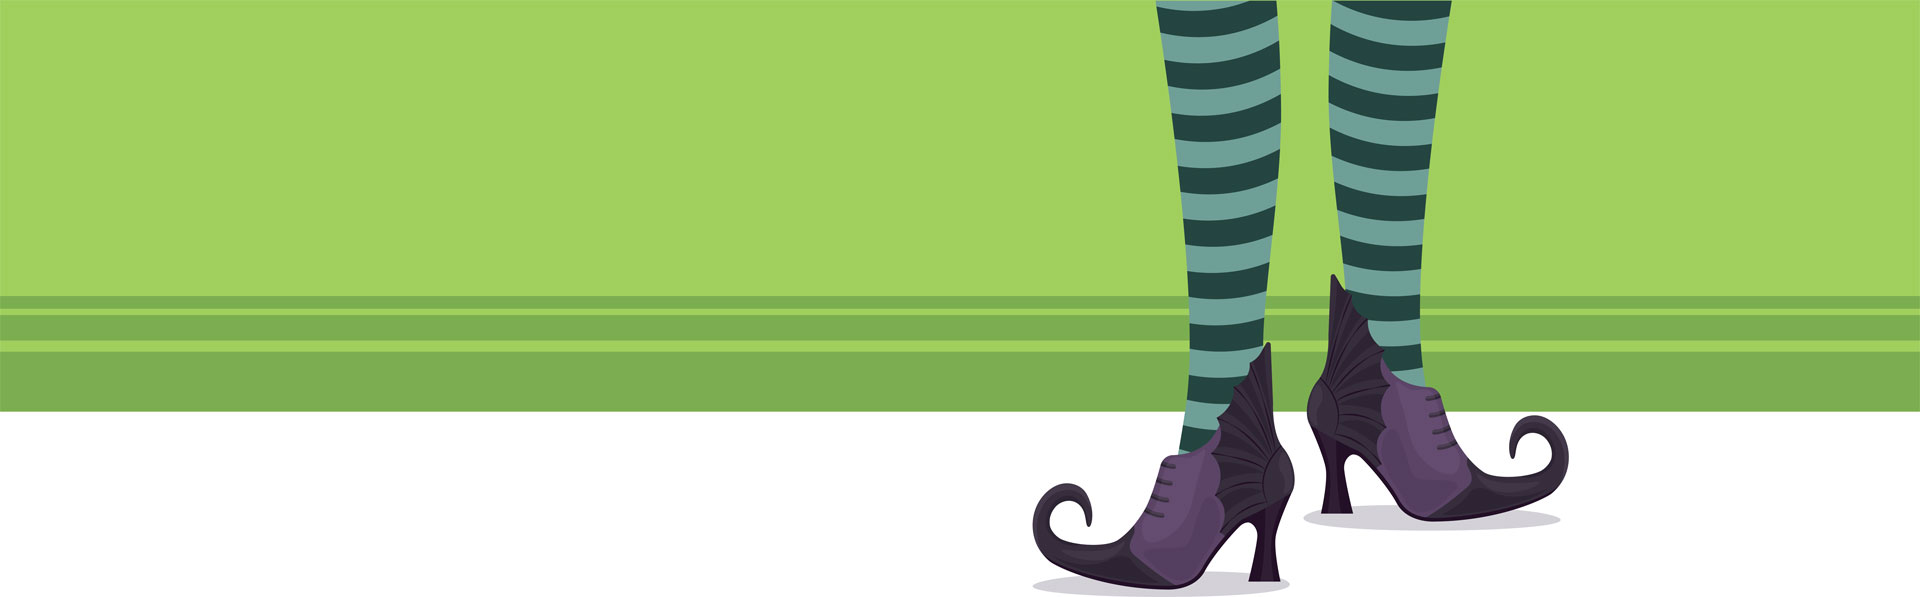
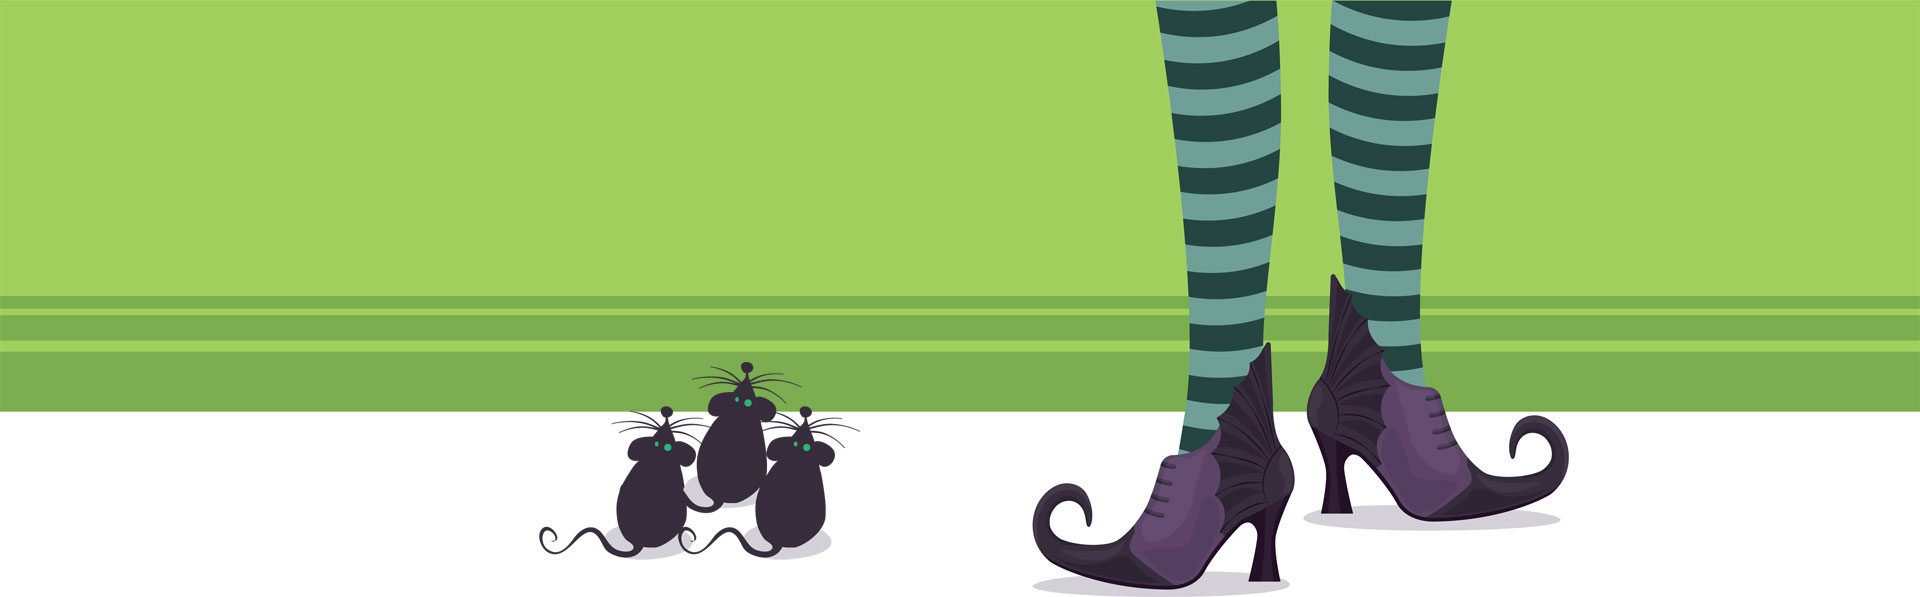
content and backgrounds

Changed region(s): [[0.2812, 0.603, 0.4375, 0.9347]]

diff --git a/storybook-holiday/index.html b/storybook-holiday/index.html
@@ -1,5 +1,6 @@
 <!DOCTYPE html>
-<html lang="en"><!-- InstanceBegin template="/Templates/page.dwt" codeOutsideHTMLIsLocked="false" -->
+<html lang="en">
+<!-- InstanceBegin template="/Templates/page.dwt" codeOutsideHTMLIsLocked="false" -->
 <head>
 <meta charset="utf-8">
 <meta http-equiv="X-UA-Compatible" content="IE=edge">
@@ -35,49 +36,132 @@ j=d.createElement(s),dl=l!='dataLayer'?'&l='+l:'';j.async=true;j.src=
 <meta name="theme-color" content="#ffffff">
 <link href="https://maxcdn.bootstrapcdn.com/bootswatch/3.3.7/cosmo/bootstrap.min.css" rel="stylesheet" integrity="sha384-h21C2fcDk/eFsW9sC9h0dhokq5pDinLNklTKoxIZRUn3+hvmgQSffLLQ4G4l2eEr" crossorigin="anonymous">
 <link href="https://fonts.googleapis.com/css?family=Roboto+Slab:300,400|Ubuntu:300,400,500,300italic,400italic,500italic|Open+Sans:300,400,500,600,700,800|Material+Icons" rel="stylesheet">
-<link type="text/css" rel="stylesheet" href="https://www.dcl.org/shared-assets/css/dcl.css?6224">
+<link type="text/css" rel="stylesheet" href="https://www.dcl.org/shared-assets/css/dcl.css?21224">
 <script src="https://kit.fontawesome.com/5a49a17030.js" crossorigin="anonymous"></script> 
 <script src="https://code.jquery.com/jquery-1.11.3.min.js" integrity="sha256-7LkWEzqTdpEfELxcZZlS6wAx5Ff13zZ83lYO2/ujj7g=" crossorigin="anonymous"></script> 
 <script src="https://maxcdn.bootstrapcdn.com/bootstrap/3.3.7/js/bootstrap.min.js" integrity="sha384-Tc5IQib027qvyjSMfHjOMaLkfuWVxZxUPnCJA7l2mCWNIpG9mGCD8wGNIcPD7Txa" crossorigin="anonymous"></script> 
 <script src="https://www.dcl.org/shared-assets/js/dcl.js?81822"></script> 
+<!-- Start of Zendesk Widget script --> 
+<script id="ze-snippet" src="https://static.zdassets.com/ekr/snippet.js?key=72a1019f-18b4-4f9c-ad65-4b7aa501f1d8"> </script> 
+<!-- End of Zendesk Widget script -->
 <!-- InstanceBeginEditable name="head" -->
-<link rel="stylesheet" href="https://cdnjs.cloudflare.com/ajax/libs/flickity/2.1.2/flickity.min.css" integrity="sha256-R7F2N1AOmvTM5vdSjlUU+Uij6rwjyLuGezvu4lU+5cI=" crossorigin="anonymous" />
 <style>
-.reserve-a-space-active {
+@font-face {
+    font-family: 'dreadful';
+    src: url('../shared-assets/web-fonts/dreadful-regular-webfont.woff2') format('woff2'), url('../shared-assets/web-fonts/dreadful-regular-webfont.woff') format('woff');
+    font-weight: normal;
+    font-style: normal;
+    font-display: swap;
+}
+.events-active {
     background-color: #f5f5f5;
 }
+.background-row {
+    background: linear-gradient(to bottom, #fff 0%, #fff 25%, #efeeed 65%, #efeeed 100%);
+}
+.dreadful {
+    font-family: "dreadful", sans-serif;
+    font-weight: 600;
+}
+h1.dreadful {
+    font-family: "dreadful", sans-serif;
+    color: #000;
+    font-size: 200px;
+    font-weight: 900;
+    text-transform: uppercase;
+    letter-spacing: 10px;
+    line-height: 160px;
+    padding: 10px 0 15px;
+    margin: 0;
+}
+.intro-text {
+    font-size: 24px;
+    text-transform: uppercase;
+    font-weight: 500;
+    padding-top: 5px;
+}
 .custom-container {
-    max-width: 2200px;
+    background: #fff url("witches-background.jpg") top center no-repeat;
+    max-width: 1920px;
     margin: 0 auto;
+    min-height: 600px;
+    color: #000;
+    font-weight: 500;
 }
-.intro-container {
-    max-width: 850px;
+.event-wrapper {
+    max-width: 700px;
+    padding: 25px 15px 0;
+    text-align: center;
+    float: right;
+    margin-right: 40%;
+}
+.details-container {
+    background: #a2ce5c url("details-background.jpg") bottom center repeat-x;
+    max-width: 1920px;
     margin: 0 auto;
-    padding: 0 15px 30px;
+    color: #000;
+    font-weight: 500;
 }
-.carousel-cell {
-    margin-right: 30px;
-    opacity: .5;
-    filter: blur(1px);
+.details-wrapper {
+    max-width: 900px;
+    margin: 0 auto;
+    padding: 45px 15px 150px;
+    text-align: center;
 }
-.carousel-cell.is-selected {
-    opacity: 1;
-    filter: blur(0);
+.details {
+    font-size: 18px;
 }
-.flickity-prev-next-button {
-    width: 50px;
-    height: 50px;
-    background: transparent;
-}
-.flickity-prev-next-button:hover {
-    background: transparent;
-}
-/* arrow color */
-.flickity-prev-next-button .arrow {
-    fill: #fff;
-}
-.flickity-prev-next-button.no-svg {
+.btn.btn-lg.btn-primary.custom {
+    background-color: #21302d;
     color: #fff;
+    text-transform: uppercase;
+    font-weight: 500;
+    border: 3px solid #fff;
+    box-shadow: 0px 0px 30px #fff;
+    transition: all .4s ease-out;
+    border-radius: 2px;
+}
+.btn.btn-lg.btn-primary.custom:active, .btn.btn-lg.btn-primary.custom:hover, .btn.btn-lg.btn-primary.custom:focus {
+    cursor: not-allowed;
+}
+/*
+.btn.btn-lg.btn-primary.custom:active, .btn.btn-lg.btn-primary.custom:hover, .btn.btn-lg.btn-primary.custom:focus {
+    background-color: #000;
+    color: #fff;
+    border: 3px solid #fff;
+    box-shadow: 0px 0px 90px #fff;
+}*/
+.signup {
+    max-width: 400px;
+    margin: 0 auto;
+}
+
+@media (max-width: 1225px) {
+.custom-container {
+    background: #fff url("witches-background.jpg") 58% 100% no-repeat;
+}
+}
+
+@media (max-width: 992px) {
+.custom-container {
+    background: #fff url("mice-background.jpg") bottom center no-repeat;
+}
+.event-wrapper {
+    padding: 25px 15px 0;
+    float: none;
+    margin: 0 auto;
+}
+}
+
+@media (max-width: 600px) {
+h1.dreadful {
+    font-size: 140px;
+    line-height: 140px;
+    letter-spacing: 2px;
+}
+.event-wrapper {
+    padding: 60px 15px 0;
+}
 }
 </style>
 <!-- InstanceEndEditable -->
@@ -163,17 +247,11 @@ height="0" width="0" style="display:none;visibility:hidden"></iframe>
         </ul>
       </li>
       <li class="digital-media-active"><a href="../digital-media/">Digital Media</a> </li>
-      <li class="dropdown reserve-a-space-active"> <a data-target="#" href="#" data-toggle="dropdown" role="button" aria-haspopup="true" aria-expanded="false">Reserve a Space <span class="glyphicon glyphicon-menu-down" aria-hidden="true"></span> </a>
-        <ul class="dropdown-menu">
-          <li><a href="../reserve-a-space/">Reserve a Space</a></li>
-          <li><a href="https://go.dcl.org/myreservations/">My Reservations</a></li>
-        </ul>
-      </li>
+      <li class="reserve-a-space-active"><a href="../reserve-a-space/">Reserve a Space</a> </li>
       <li class="dropdown events-active"> <a data-target="#" href="#" data-toggle="dropdown" role="button" aria-haspopup="true" aria-expanded="false">Library Events <span class="glyphicon glyphicon-menu-down" aria-hidden="true"></span></a>
         <ul class="dropdown-menu" role="menu">
           <li><a href="../featured-events/">Featured Events</a></li>
-          <li><a href="https://go.dcl.org/events?et=storytime&r=months&n=1">Events Calendar</a></li>
-          <li><a href="https://go.dcl.org/myevents">My Events</a></li>
+          <li><a href="https://douglascountylibraries.evanced.info/signup/list?nomobile=1&et=2,3,15,16,18,20,22,24,25,35,36,37,38,39,40&lib=ALL&nd=180" target="_blank">Events Calendar</a></li>
         </ul>
       </li>
       <li class="research-active"><a href="../research/">Research</a></li>
@@ -228,17 +306,11 @@ height="0" width="0" style="display:none;visibility:hidden"></iframe>
                 </ul>
               </li>
               <li class="digital-media-active mobile-nav-heading"><a href="../digital-media/">Digital Media</a> </li>
-              <li class="mobile-nav-heading"> <a href="#" data-toggle="collapse" data-target="#reserve-a-space">Reserve a Space <span class="glyphicon glyphicon-menu-down" aria-hidden="true"></span> </a>
-                <ul id="reserve-a-space" class="nav mobile-nav-list collapse">
-                  <li><a href="../reserve-a-space/">Reserve a Space</a></li>
-                  <li><a href="https://go.dcl.org/myreservations/">My Reservations</a></li>
-                </ul>
-              </li>
+              <li class="reserve-a-space-active mobile-nav-heading"><a href="../reserve-a-space/">Reserve a Space</a> </li>
               <li class="mobile-nav-heading"> <a href="#" data-toggle="collapse" data-target="#library-events">Library Events <span class="glyphicon glyphicon-menu-down" aria-hidden="true"></span> </a>
                 <ul id="library-events" class="nav mobile-nav-list collapse">
                   <li><a href="../featured-events/">Featured Events</a></li>
-                  <li><a href="https://go.dcl.org/events?et=storytime&r=months&n=1">Events Calendar</a></li>
-                  <li><a href="https://go.dcl.org/myevents">My Events</a></li>
+                  <li><a href="https://douglascountylibraries.evanced.info/signup/list?nomobile=1&et=2,3,15,16,18,20,22,24,25,35,36,37,38,39,40&lib=ALL&nd=180" target="_blank">Events Calendar</a></li>
                 </ul>
               </li>
               <li class="research-active mobile-nav-heading"><a href="../research/">Research</a> </li>
@@ -268,51 +340,32 @@ height="0" width="0" style="display:none;visibility:hidden"></iframe>
     <div id="general-alert" style="display:none;"></div>
   </div>
   <!-- InstanceBeginEditable name="Content" -->
-  <div class="row text-center border-top">
-    <div class="intro-container">
-      <h1 class="jumbo-text text-uppercase font-weight-400 no-margin-bottom">A Storybook Holiday</h1>
-      <h4 class="roboto text-center margin-top-5">Our Storybook Holiday events are a delight for the whole family, celebrating beloved stories and timeless characters in classic literature. </h4>
-      <div class="margin-lg-50">Join us for whimsical crafts and activities, catered food and drinks, music, entertainment, and more as we bring favorite stories to life throughout the year. Costumes are always encouraged!</div>
-      <h4><i>Coming this Fall!</i></h4>
-    </div>
-    <div class="custom-container no-padding">
-      <div class="carousel" data-flickity='{ "imagesLoaded": true, "groupCells": 1, "pageDots": false, "wrapAround": true, "autoPlay": 4000 }'>
-        <div class="carousel-cell"><img src="carousel/one.jpg" alt=""></div>
-        <div class="carousel-cell"><img src="carousel/two.jpg" alt=""></div>
-        <div class="carousel-cell"><img src="carousel/three.jpg" alt=""></div>
-        <div class="carousel-cell"><img src="carousel/four.jpg" alt=""></div>
-        <div class="carousel-cell"><img src="carousel/five.jpg" alt=""></div>
-        <div class="carousel-cell"><img src="carousel/six.jpg" alt=""></div>
-        <div class="carousel-cell"><img src="carousel/seven.jpg" alt=""></div>
-        <div class="carousel-cell"><img src="carousel/eight.jpg" alt=""></div>
-        <div class="carousel-cell"><img src="carousel/nine.jpg" alt=""></div>
-        <div class="carousel-cell"><img src="carousel/ten.jpg" alt=""></div>
-        <div class="carousel-cell"><img src="carousel/eleven.jpg" alt=""></div>
-        <div class="carousel-cell"><img src="carousel/twelve.jpg" alt=""></div>
-        <div class="carousel-cell"><img src="carousel/thirteen.jpg" alt=""></div>
-        <div class="carousel-cell"><img src="carousel/fourteen.jpg" alt=""></div>
-        <div class="carousel-cell"><img src="carousel/fifteen.jpg" alt=""></div>
-        <div class="carousel-cell"><img src="carousel/sixteen.jpg" alt=""></div>
+  <div class="row background-row">
+    <div class="custom-container">
+      <div class="event-wrapper">
+        <div><i>"But this is not a fairy-tale. This is about real witches."" – Roald Dahl</i></div>
+        <div class="intro-text">A Storybook Holiday:</div>
+        <h1 class="dreadful">Witches!</h1>
       </div>
     </div>
-    <div class="container padding-top-30 padding-bottom-60">Sign up for our <a class="text-underline" href="../newsletters/">eNewsletter</a> to get the inside scoop on DCL events and ticket sales!</div>
+    <div class="details-container">
+      <div class="details-wrapper">
+        <div class="details">Join us, brave souls and clever children, for a fantastical evening in a favorite haunt as we celebrate Roald Dahl's "The Witches." Creatures and critters of all ages will be enchanted by the evening's eerie delights, including our interactive trick-or-treat experience with treats and frights along the way, magical crafts, spellbinding entertainment and activities, and cauldrons of tasty goodies for all to enjoy. But beware the witches!</div>
+        <h3 class="black no-margin-bottom">Saturday, October&nbsp;26, 6-9PM, Highlands Ranch</h3>
+        <h4 class="black margin-top-5 margin-bottom-5">$23 Adults, $18 ages 3-13</h4>
+        <div class="padding-bottom-20">(Ages 0-2 free with paying adult)</div>
+        <button class="btn btn-primary btn-lg custom" type="button">Tickets On Sale Aug 1</button>
+        <div class="signup padding-top-20"><i>Sign up for our <a class="black text-underline" href="../newsletters/">eNewsletter</a> to get the inside scoop on DCL events and ticket sales!</i></div>
+      </div>
+    </div>
   </div>
-  <!--<div class="text-center padding-top-40 padding-bottom-50">
-  <div>
-    <h4><i>Coming Spring 2022!</i></h4>
-    <div>
-      <h3 class="no-margin">A Storybook Holiday Spring:</h3>
-      <h1 class="no-margin-top text-uppercase font-weight-400">That Hungry Little Bug</h1>
-      Sunday, March 27, Parker<br>
-      Tickets on sale soon. </div>
-  </div>
-</div>--> 
   <!-- InstanceEndEditable --> </div>
 <div class="row no-margin bg-gray-10">
   <div class="container">
     <div class="social-footer">
       <div class="social-left">
         <h5 class="margin-top-10 margin-bottom-10">Customer Service: <span class="text-nowrap"><a href="tel:+13037917323">(303) 791-7323</a></span></h5>
+        <h5 class="margin-top-5"><a href="taxes/" target="_blank">Tax&nbsp;Resources</a>&nbsp;| <a href="https://cotaxaide.org/appt/" target="_blank">Tax&nbsp;Help&nbsp;for&nbsp;Seniors</a></h5>
       </div>
       <div class="social-right">
         <div class="social-links-wrapper"> <a class="margin-right-5" title="Friend us on Facebook" href="https://www.facebook.com/DCLColorado" target="_blank"><i class="fa-brands fa-facebook fa-2x"></i></a> <a class="margin-right-5" title="Follow us on Twitter" href="https://twitter.com/DCLcolorado" target="_blank"> <i class="fa-brands fa-x-twitter fa-2x"></i></a> <a class="margin-right-5" title="Follow us on Instagram" href="https://www.instagram.com/dclcolorado/" target="_blank"> <i class="fa-brands fa-instagram fa-2x"></i></a> <a class="margin-right-5" title="Check us out on Pinterest" href="https://pinterest.com/dougcolibraries/" target="_blank"><i class="fa-brands fa-pinterest fa-2x"></i></a> <a class="margin-right-5" title="Check out our Youtube Channel" href="https://www.youtube.com/user/dclwebteam" target="_blank"> <i class="fa-brands fa-youtube fa-2x"></i></a> <a title="Visit us on Flickr" href="https://www.flickr.com/photos/douglascountylibraries/albums" target="_blank"> <i class="fa-brands fa-flickr fa-2x"></i></a> </div>
@@ -335,8 +388,8 @@ height="0" width="0" style="display:none;visibility:hidden"></iframe>
       <div class="footer-column">
         <h5>Contact</h5>
         <ul>
-          <li><a href="../help/">Help & FAQs</a></li>
-          <li><a href="../board/cora-request/">DCL Open Records Request</a></li>
+          <li><a href="https://help.dcl.org/" target="_blank">Help & FAQs</a></li>
+          <li><a href="../board/cora-request/">Colorado Open Records Request</a></li>
         </ul>
       </div>
       <div class="footer-column">
@@ -368,17 +421,7 @@ height="0" width="0" style="display:none;visibility:hidden"></iframe>
     </div>
   </div>
 </div>
-<!-- InstanceBeginEditable name="scripts" --> 
-<script src="https://cdnjs.cloudflare.com/ajax/libs/flickity/2.1.2/flickity.pkgd.min.js" integrity="sha256-jBJrwTqJhvGprAz9HNZygKWuDspS1FGf5wK3z4XHakM=" crossorigin="anonymous"></script> 
-<script>
-	var cards = $(".carousel-cell");
-for (var i = 0; i < cards.length; i++) {
-  var target1 = Math.floor(Math.random() * cards.length - 1) + 1;
-  var target2 = Math.floor(Math.random() * cards.length - 1) + 1;
-  cards.eq(target1).before(cards.eq(target2));
-}
- </script> 
-<!-- InstanceEndEditable --> <!-- InstanceBeginEditable name="structured data" --> 
+<!-- InstanceBeginEditable name="scripts" --> <!-- InstanceEndEditable --> <!-- InstanceBeginEditable name="structured data" --> 
 <script type="application/ld+json">
 {
 	"@context": "http://schema.org",
@@ -404,7 +447,8 @@ for (var i = 0; i < cards.length; i++) {
 		"query-input": "required name=search_term_string"
 	},
 	"sameAs": ["https:\/\/dcl.bibliocommons.com",
-		"https:\/\/www.dclblog.org",
+		"https:\/\/www.blogs.douglascountylibraries.org",
+		"https:\/\/help.dcl.org/",
 		"https:\/\/www.douglascountylibraries.org/",
 		"https:\/\/www.facebook.com\/DouglasCountyLibrariesColorado",
 		"https:\/\/www.instagram.com\/dclcolorado",
@@ -437,4 +481,5 @@ e.async=true;var t=document.getElementsByTagName("script")[0];t.parentNode.inser
 </script> 
 <!-- End Patron Point -->
 </body>
-<!-- InstanceEnd --></html>
+<!-- InstanceEnd -->
+</html>
